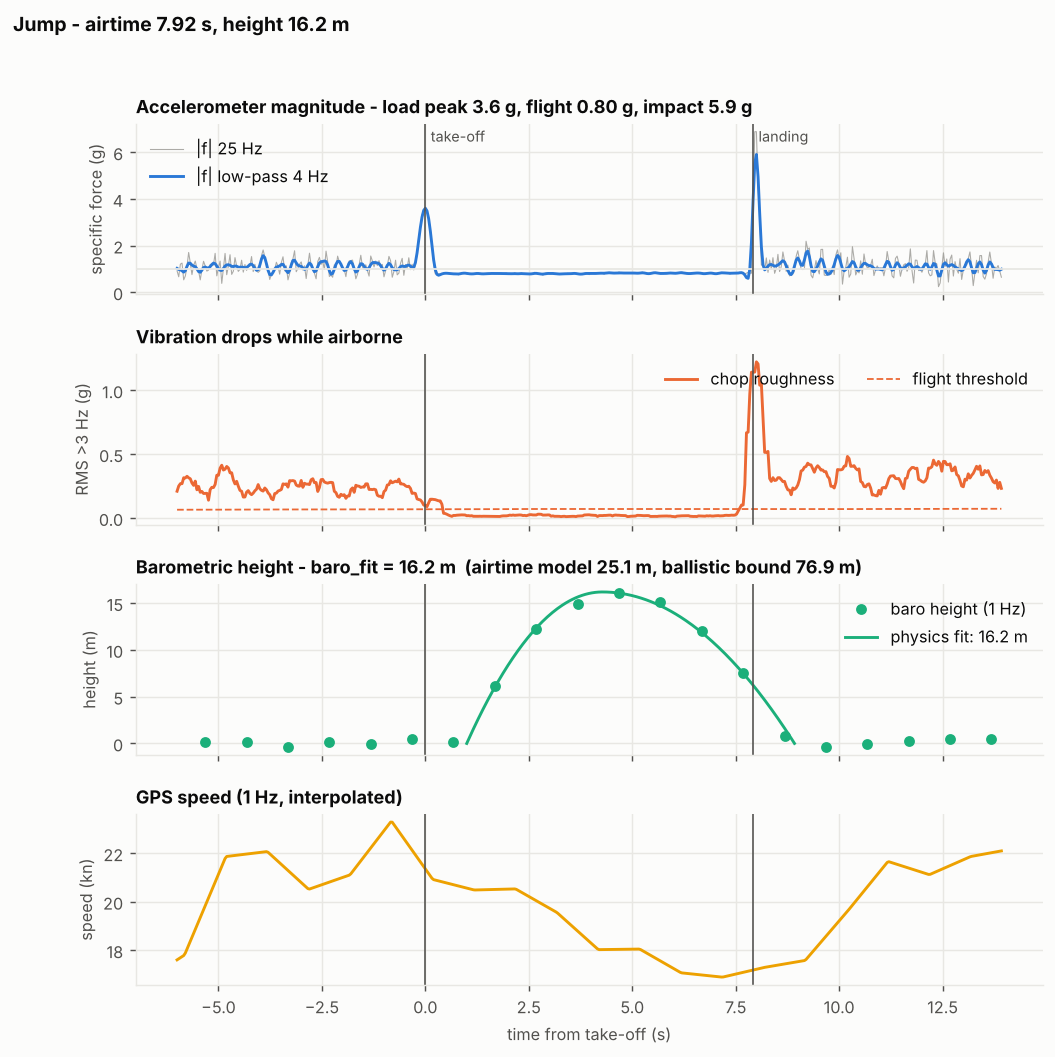
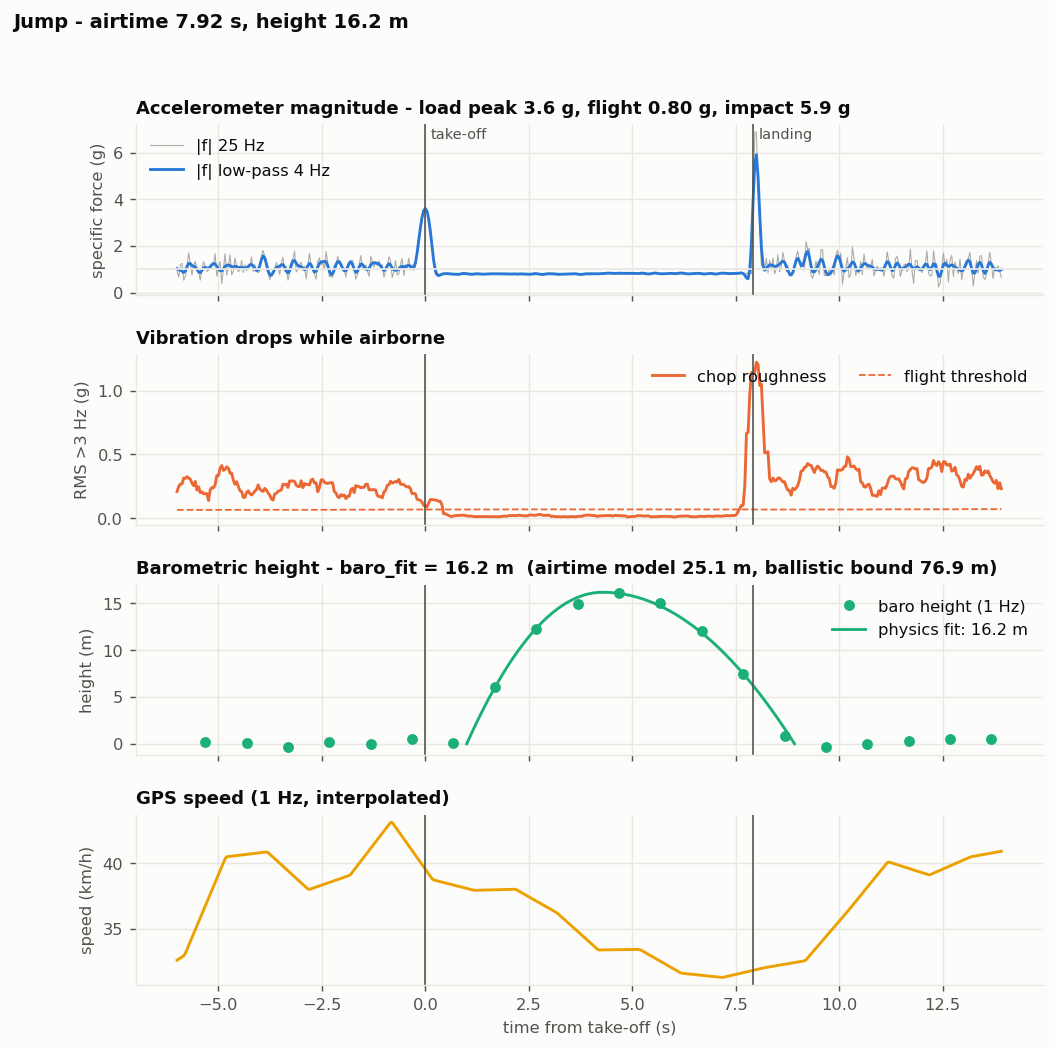
Speeds in km/h everywhere; show save result; first device test results
Watch: speed in km/h, "--" until the GPS fix is usable and 0 below 2 km/h
(indoors the GPS speed jittered up to 14 km/h while sitting still; display
only, the FIT keeps raw speed). After saving, show "Saved" / "Save failed"
from Session.save() for 5 s.

Analysis: speeds stay m/s internally and are km/h in every output -
analyze.py printout, jumps.csv (takeoff/landing_speed_kmh), session.json
(*_kmh), plots and docs figures. Browser report defaults to km/h, exports
CSV speeds in km/h and takes the min take-off speed setting in km/h. JS/Python
parity still passes (17/17 jumps, run under JavaScriptCore).

README: first watch test - S1 (25 Hz batches every second) and S2 (16
developer fields, session saves) pass; raw pressure sigma ~2 Pa at rest.

diff --git a/web/report.js b/web/report.js
@@ -3,12 +3,13 @@ import { decodeFit, unwrapFit } from './fit.js';
 import { analyze, DEFAULT_DETECT, DEFAULT_HEIGHT, interp, jumpModel, localXY } from './kitelog.js';
 
 const $ = (id) => document.getElementById(id);
-const UNITS = { kn: [1.94384, 'kn'], kmh: [3.6, 'km/h'], mps: [1, 'm/s'] };
-const PARAM_IDS = ['roughRatio', 'roughFloorG', 'takeoffMinPeakG', 'landingMinPeakG', 'levelMinG', 'levelMaxG', 'minSpeedMps', 'minSmoothS'];
+const UNITS = { kmh: [3.6, 'km/h'], kn: [1.94384, 'kn'], mps: [1, 'm/s'] };
+const KMH = 3.6;
+const PARAM_IDS = ['roughRatio', 'roughFloorG', 'takeoffMinPeakG', 'landingMinPeakG', 'levelMinG', 'levelMaxG', 'minSmoothS'];
 const state = { buffer: null, name: '', fit: null, result: null, sortKey: 'jump', sortDir: 1, map: null };
 
 const fmt = (v, d = 1) => Number.isFinite(v) ? v.toFixed(d) : '–';
-const speedUnit = () => UNITS[$('unit').value] || UNITS.kn;
+const speedUnit = () => UNITS[$('unit').value] || UNITS.kmh;
 const esc = (s) => String(s).replace(/[&<>"]/g, (c) => ({ '&': '&amp;', '<': '&lt;', '>': '&gt;', '"': '&quot;' }[c]));
 const hms = (s) => { s = Math.max(0, Math.round(s)); const h = Math.floor(s / 3600), m = Math.floor((s % 3600) / 60), x = s % 60; return (h ? h + ':' : '') + String(m).padStart(h ? 2 : 1, '0') + ':' + String(x).padStart(2, '0'); };
 const clock = (unix) => new Date(unix * 1000).toLocaleTimeString([], { hour: '2-digit', minute: '2-digit', second: '2-digit' });
@@ -18,11 +19,14 @@ function setStatus(msg, err = false) { const el = $('status'); el.textContent = 
 function readParams() {
   const d = { ...DEFAULT_DETECT };
   for (const id of PARAM_IDS) { const v = parseFloat($(id).value); if (Number.isFinite(v)) d[id] = v; }
+  const vMin = parseFloat($('minSpeedKmh').value);        // entered in km/h, detector works in m/s
+  if (Number.isFinite(vMin)) d.minSpeedMps = vMin / KMH;
   const h = { ...DEFAULT_HEIGHT, aEff: parseFloat($('aEff').value) || 3.2 };
   return { d, h };
 }
 function setDefaults() {
   for (const id of PARAM_IDS) $(id).value = DEFAULT_DETECT[id];
+  $('minSpeedKmh').value = +(DEFAULT_DETECT.minSpeedMps * KMH).toFixed(1);
   $('aEff').value = DEFAULT_HEIGHT.aEff;
 }
 
@@ -268,8 +272,10 @@ function download(name, text, type = 'text/plain') {
 }
 function exportCsv() {
   const cols = ['jump', 'accepted', 'rejectReason', 'flags', 'tsTo', 'airtime', 'height', 'heightMethod', 'heightFlag', 'hFit', 'hQuad', 'hMaxSample', 'hAirtime', 'fitRmse', 'fitAUp', 'fitADn', 'fitLag', 'nBaro', 'distance', 'distSpeed', 'distPos', 'takeoffSpeed', 'landingSpeed', 'maxAirSpeed', 'takeoffPeakG', 'landingPeakG', 'flightLevelG', 'roughIn', 'roughRef'];
-  const rows = state.result.jumps.map(j => cols.map(c => { const v = j[c]; return typeof v === 'number' ? (Number.isFinite(v) ? v.toFixed(4) : '') : '"' + String(v).replace(/"/g, '""') + '"'; }).join(','));
-  download(state.name.replace(/\.[^.]+$/, '') + '_jumps.csv', cols.join(',') + '\n' + rows.join('\n'), 'text/csv');
+  const speedCols = ['takeoffSpeed', 'landingSpeed', 'maxAirSpeed'];      // m/s internally, km/h in the file
+  const rows = state.result.jumps.map(j => cols.map(c => { const v = speedCols.includes(c) ? j[c] * KMH : j[c]; return typeof v === 'number' ? (Number.isFinite(v) ? v.toFixed(4) : '') : '"' + String(v).replace(/"/g, '""') + '"'; }).join(','));
+  const head = cols.map(c => speedCols.includes(c) ? c + 'Kmh' : c);
+  download(state.name.replace(/\.[^.]+$/, '') + '_jumps.csv', head.join(',') + '\n' + rows.join('\n'), 'text/csv');
 }
 function exportGpx() {
   const { streams: s } = state.result;

diff --git a/web/index.html b/web/index.html
@@ -23,7 +23,7 @@
       <summary>Analysis settings</summary>
       <div class="grid" style="margin-top:10px">
         <label class="field">Speed unit
-          <select id="unit"><option value="kn">knots</option><option value="kmh">km/h</option><option value="mps">m/s</option></select></label>
+          <select id="unit"><option value="kmh" selected>km/h</option><option value="kn">knots</option><option value="mps">m/s</option></select></label>
         <label class="field">Airtime-model a<sub>eff</sub> (m/s²)<input id="aEff" type="number" step="0.1" value="3.2"></label>
         <label class="field">Flight roughness ratio<input id="roughRatio" type="number" step="0.05" value="0.30"></label>
         <label class="field">Roughness floor (g)<input id="roughFloorG" type="number" step="0.005" value="0.035"></label>
@@ -31,7 +31,7 @@
         <label class="field">Landing peak min (g)<input id="landingMinPeakG" type="number" step="0.1" value="1.6"></label>
         <label class="field">Flight level min (g)<input id="levelMinG" type="number" step="0.05" value="0.25"></label>
         <label class="field">Flight level max (g)<input id="levelMaxG" type="number" step="0.05" value="1.45"></label>
-        <label class="field">Min take-off speed (m/s)<input id="minSpeedMps" type="number" step="0.5" value="3"></label>
+        <label class="field">Min take-off speed (km/h)<input id="minSpeedKmh" type="number" step="1" value="10.8"></label>
         <label class="field">Min smooth time (s)<input id="minSmoothS" type="number" step="0.04" value="0.32"></label>
       </div>
       <div class="row" style="margin-top:10px">

diff --git a/tools/kitelog/report.py b/tools/kitelog/report.py
@@ -12,7 +12,7 @@ import pandas as pd
 from .detect import Streams, Features, JumpCandidate
 from .height import HeightResult, HeightParams
 from .physics import JumpModel, pressure_to_rel_height
-from .session import local_xy
+from .session import local_xy, KMH
 
 C_BLUE, C_ORANGE, C_AQUA, C_YELLOW, C_MAGENTA = "#2a78d6", "#eb6834", "#1baf7a", "#eda100", "#e87ba4"
 C_TEXT, C_TEXT2, C_MUTED, C_GRID, C_SURFACE = "#0b0b0b", "#52514e", "#8a8984", "#e8e7e3", "#fcfcfb"
@@ -81,8 +81,8 @@ def plot_jump(s: Streams, F: Features, c: JumpCandidate, h: HeightResult, path: 
     ax.legend(loc="upper right", frameon=False)
     # 4 speed
     ax = axes[3]
-    ax.plot(tt, F.speed[sel] * 1.94384, color=C_YELLOW, lw=1.6, label="GPS speed")
-    ax.set_ylabel("speed (kn)")
+    ax.plot(tt, F.speed[sel] * KMH, color=C_YELLOW, lw=1.6, label="GPS speed")
+    ax.set_ylabel("speed (km/h)")
     ax.set_xlabel("time from take-off (s)")
     ax.set_title("GPS speed (1 Hz, interpolated)")
     for ax in axes:
@@ -116,7 +116,7 @@ def plot_session(s: Streams, F: Features, jumps: pd.DataFrame, path: str):
     ax1.set_title("GPS track")
     tmin = s.t[0]
     gok = np.isfinite(s.speed)
-    ax2.plot((s.gps_t[gok] - tmin) / 60, s.speed[gok] * 1.94384, color=C_YELLOW, lw=0.9, label="speed (kn)")
+    ax2.plot((s.gps_t[gok] - tmin) / 60, s.speed[gok] * KMH, color=C_YELLOW, lw=0.9, label="speed (km/h)")
     acc = jumps[jumps["accepted"]] if len(jumps) else jumps
     if len(acc):
         ax2.vlines((acc["t_to"] - tmin) / 60, 0, 1, transform=ax2.get_xaxis_transform(), color=C_ORANGE, lw=0.8, alpha=0.7)
@@ -125,7 +125,7 @@ def plot_session(s: Streams, F: Features, jumps: pd.DataFrame, path: str):
             ax2.annotate("%.1f m" % j["height_m"], ((j["t_to"] - tmin) / 60, 1.0), xycoords=("data", "axes fraction"),
                          fontsize=8, color=C_TEXT2, ha="center", va="bottom")
     ax2.set_xlabel("session time (min)")
-    ax2.set_ylabel("speed (kn)")
+    ax2.set_ylabel("speed (km/h)")
     ax2.set_title("Speed and jumps")
     ax2.legend(loc="upper right", frameon=False)
     fig.savefig(path, dpi=130, bbox_inches="tight")

diff --git a/tools/kitelog/session.py b/tools/kitelog/session.py
@@ -10,6 +10,8 @@ import pandas as pd
 from .detect import Streams, JumpCandidate
 from .height import HeightResult
 
+KMH = 3.6        # m/s -> km/h; speeds are m/s internally, km/h in every output
+
 
 def local_xy(lat, lon, lat0=None, lon0=None):
     lat = np.asarray(lat, float)
@@ -76,7 +78,7 @@ def jumps_table(s: Streams, cands: list[JumpCandidate], heights: list[HeightResu
             n_baro_samples=h.n_flight_samples,
             distance_m=d["dist_speed"] if np.isfinite(d["dist_speed"]) else d["dist_pos"],
             dist_speed_m=d["dist_speed"], dist_pos_m=d["dist_pos"],
-            takeoff_speed_mps=d["v_to"], landing_speed_mps=d["v_land"],
+            takeoff_speed_kmh=d["v_to"] * KMH, landing_speed_kmh=d["v_land"] * KMH,
             takeoff_peak_g=c.takeoff_peak_g, landing_peak_g=c.landing_peak_g, flight_level_g=c.flight_level_g,
             rough_in_g=c.rough_in, rough_ref_g=c.rough_ref,
         ))
@@ -88,9 +90,9 @@ class SessionStats:
     duration_s: float
     riding_time_s: float
     distance_m: float
-    max_speed_mps: float
-    max_speed_10s_mps: float
-    avg_riding_speed_mps: float
+    max_speed_kmh: float
+    max_speed_10s_kmh: float
+    avg_riding_speed_kmh: float
     tacks: int
     jumps: int
     max_height_m: float
@@ -149,9 +151,9 @@ def session_stats(s: Streams, jumps: pd.DataFrame) -> SessionStats:
         duration_s=float(s.t[-1] - s.t[0]),
         riding_time_s=float(np.sum(dt[riding])),
         distance_m=float(np.sum(spd * dt)),
-        max_speed_mps=float(np.max(spd)) if len(spd) else np.nan,
-        max_speed_10s_mps=float(np.max(spd10)) if len(spd10) else np.nan,
-        avg_riding_speed_mps=float(np.mean(spd[riding])) if riding.any() else np.nan,
+        max_speed_kmh=float(np.max(spd)) * KMH if len(spd) else np.nan,
+        max_speed_10s_kmh=float(np.max(spd10)) * KMH if len(spd10) else np.nan,
+        avg_riding_speed_kmh=float(np.mean(spd[riding])) * KMH if riding.any() else np.nan,
         tacks=count_tacks(s),
         jumps=int(len(acc)),
         max_height_m=float(acc["height_m"].max()) if len(acc) else 0.0,

diff --git a/tools/analyze.py b/tools/analyze.py
@@ -40,8 +40,8 @@ report.export_map_html(s, jumps, os.path.join(out, "map.html"))
 acc = jumps[jumps["accepted"]] if len(jumps) else jumps
 print(f"jumps: {len(acc)} accepted / {len(jumps)} candidates;  max height {stats.max_height_m:.1f} m, "
       f"max airtime {stats.max_airtime_s:.2f} s, longest {stats.longest_jump_m:.0f} m; tacks {stats.tacks}; "
-      f"distance {stats.distance_m/1000:.1f} km; max speed {stats.max_speed_mps*1.94384:.1f} kn")
-cols = ["jump", "airtime_s", "height_m", "height_method", "distance_m", "takeoff_speed_mps", "takeoff_peak_g", "landing_peak_g", "n_baro_samples"]
+      f"distance {stats.distance_m/1000:.1f} km; max speed {stats.max_speed_kmh:.1f} km/h")
+cols = ["jump", "airtime_s", "height_m", "height_method", "distance_m", "takeoff_speed_kmh", "takeoff_peak_g", "landing_peak_g", "n_baro_samples"]
 if len(acc):
     with pd.option_context("display.width", 160, "display.max_rows", 200):
         print(acc[cols].round(2).to_string(index=False))

diff --git a/PLAN.md b/PLAN.md
@@ -39,7 +39,7 @@ plus the GPS trace on a map, Hoolan/Surfr style.  Processing happens off the wat
   simulator is honest about what it does not know (real wrist vibration levels, real
   barometer behaviour in spray and wind) – those are the first things the field tests
   measure.
-* **Live display:** timer, speed in knots, GPS quality and a recording health counter are
+* **Live display:** timer, speed in km/h, GPS quality and a recording health counter are
   in the skeleton.  A simple live jump counter is included as phase 2 (off by default).
 
 ---
@@ -242,7 +242,7 @@ source/KiteLogApp.mc         AppBase: wires Recorder + SensorHub (+ LiveJumpDete
 source/SensorHub.mc          GPS config fallback chain, 25 Hz listener, raw pressure read per batch
 source/Recorder.mc           session (SPORT_KITESURFING), 16 record fields, onBatch() packing, pause/save/discard
 source/Pack.mc               encodeMg / packPair / packMeta  (mirrors tools/kitelog/packing.py and web/kitelog.js)
-source/KiteLogView.mc        timer (big), speed in knots (big), REC/PAUSED/READY, GPS bars, batch health
+source/KiteLogView.mc        timer (big), speed in km/h (big), REC/PAUSED/READY, GPS bars, batch health
 source/KiteLogDelegate.mc    START = start/pause, BACK = Save/Discard/Resume menu (Menu2), BACK idle = exit
 source/LiveJumpDetector.mc   phase 2, off by default (LIVE_DETECTOR const in KiteLogApp.mc)
 ```
@@ -259,7 +259,7 @@ Key behaviours:
   is open and exits when idle; `onStop` saves an open session so leaving the app never loses
   data.
 * **Display:** 2-colour, large fonts, nothing drawn in the Instinct's top-right subwindow
-  area.  Shows timer, speed (kn), GPS quality bars, and `b<batches> n<samples>` so you can
+  area.  Shows timer, speed (km/h), GPS quality bars, and `b<batches> n<samples>` so you can
   see at a glance that the sensor stream is alive (phase 1); jump count + last airtime in
   phase 2.
 * **Memory:** no bitmaps except the 40×40 icon, no layouts, no large arrays – well inside

diff --git a/README.md b/README.md
@@ -37,15 +37,16 @@ extension for VS Code and a developer key.
 - **Crash / debug log:** create an empty `GARMIN/APPS/LOGS/KiteLog.TXT` before testing to
   capture `System.println` output; crashes are written to `GARMIN/APPS/LOGS/CIQ_LOG.YML`.
 
-The app compiles with SDK 9.3 and runs in the simulator (UI, session save, 16 developer
-fields declared). The simulator produces no accelerometer data, so the data path is first
-proven on the watch: `PLAN.md` §8 lists the five device spikes to run first (accelerometer
-callback, developer-field limit, barometer, record rate, GPS).
+Status: builds with SDK 9.3; on the watch, spikes S1 (25 Hz accelerometer batches every
+second) and S2 (all 16 developer fields, session saves) pass, and the raw barometer is
+quiet (σ ≈ 2 Pa sitting still). Still to run from `PLAN.md` §8: stairs (S3), a walk with
+*Every Second* recording (S4) and a ride (S5).
 
 ## Recording a session
 
-1. Start **KiteLog** on the watch; it starts acquiring GPS immediately (bars top-left).
-2. **START** begins recording (shows `REC`, timer, speed in knots and a batch counter that
+1. Start **KiteLog** on the watch; it starts acquiring GPS immediately (bars in the round
+   subwindow; speed shows `--` until the fix is usable, and 0 below 2 km/h).
+2. **START** begins recording (shows `REC`, timer, speed in km/h and a batch counter that
    should tick every second). START again pauses.
 3. **BACK** opens *Resume / Save / Discard*. Leaving the app with a session open saves it.
 4. Sync. The activity shows up as *Kiteboarding* in Garmin Connect.

diff --git a/docs/ANALYSIS.md b/docs/ANALYSIS.md
@@ -53,7 +53,7 @@ converge, `airtime` the fallback `a_eff·T²/8` when the barometer was unusable 
 port, missing baseline). Flags such as `landing_in_gap` mean a dropped record touched the
 jump; the numbers are still reported but less certain.
 
-**Analysis settings** (collapsible): speed unit, `a_eff`, and the main detection thresholds.
+**Analysis settings** (collapsible): speed unit (km/h by default), `a_eff`, and the main detection thresholds.
 *Show rejected candidates* lists everything the detector considered and why it was
 rejected – the most useful view while tuning on the first real sessions. Re-analyse applies
 the new values to the loaded file; Defaults restores the values from `kitelog.js`.
